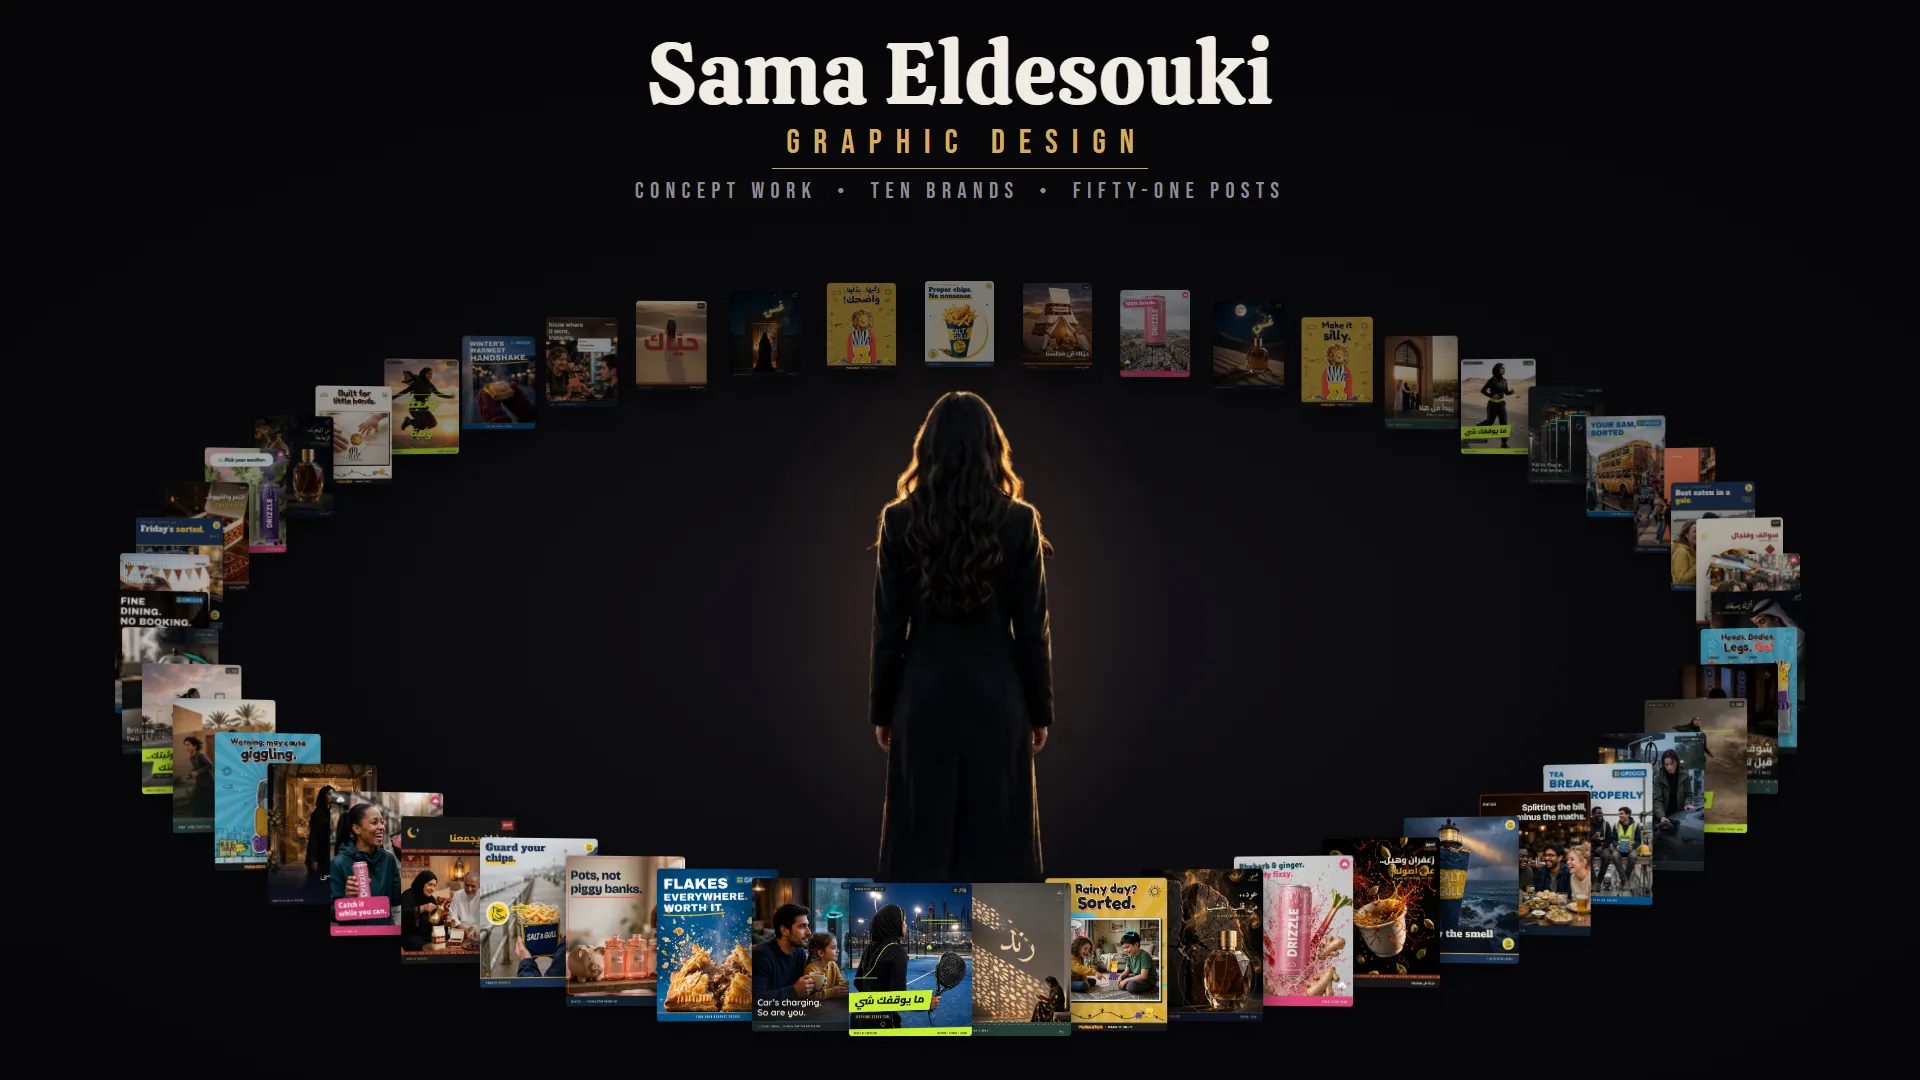
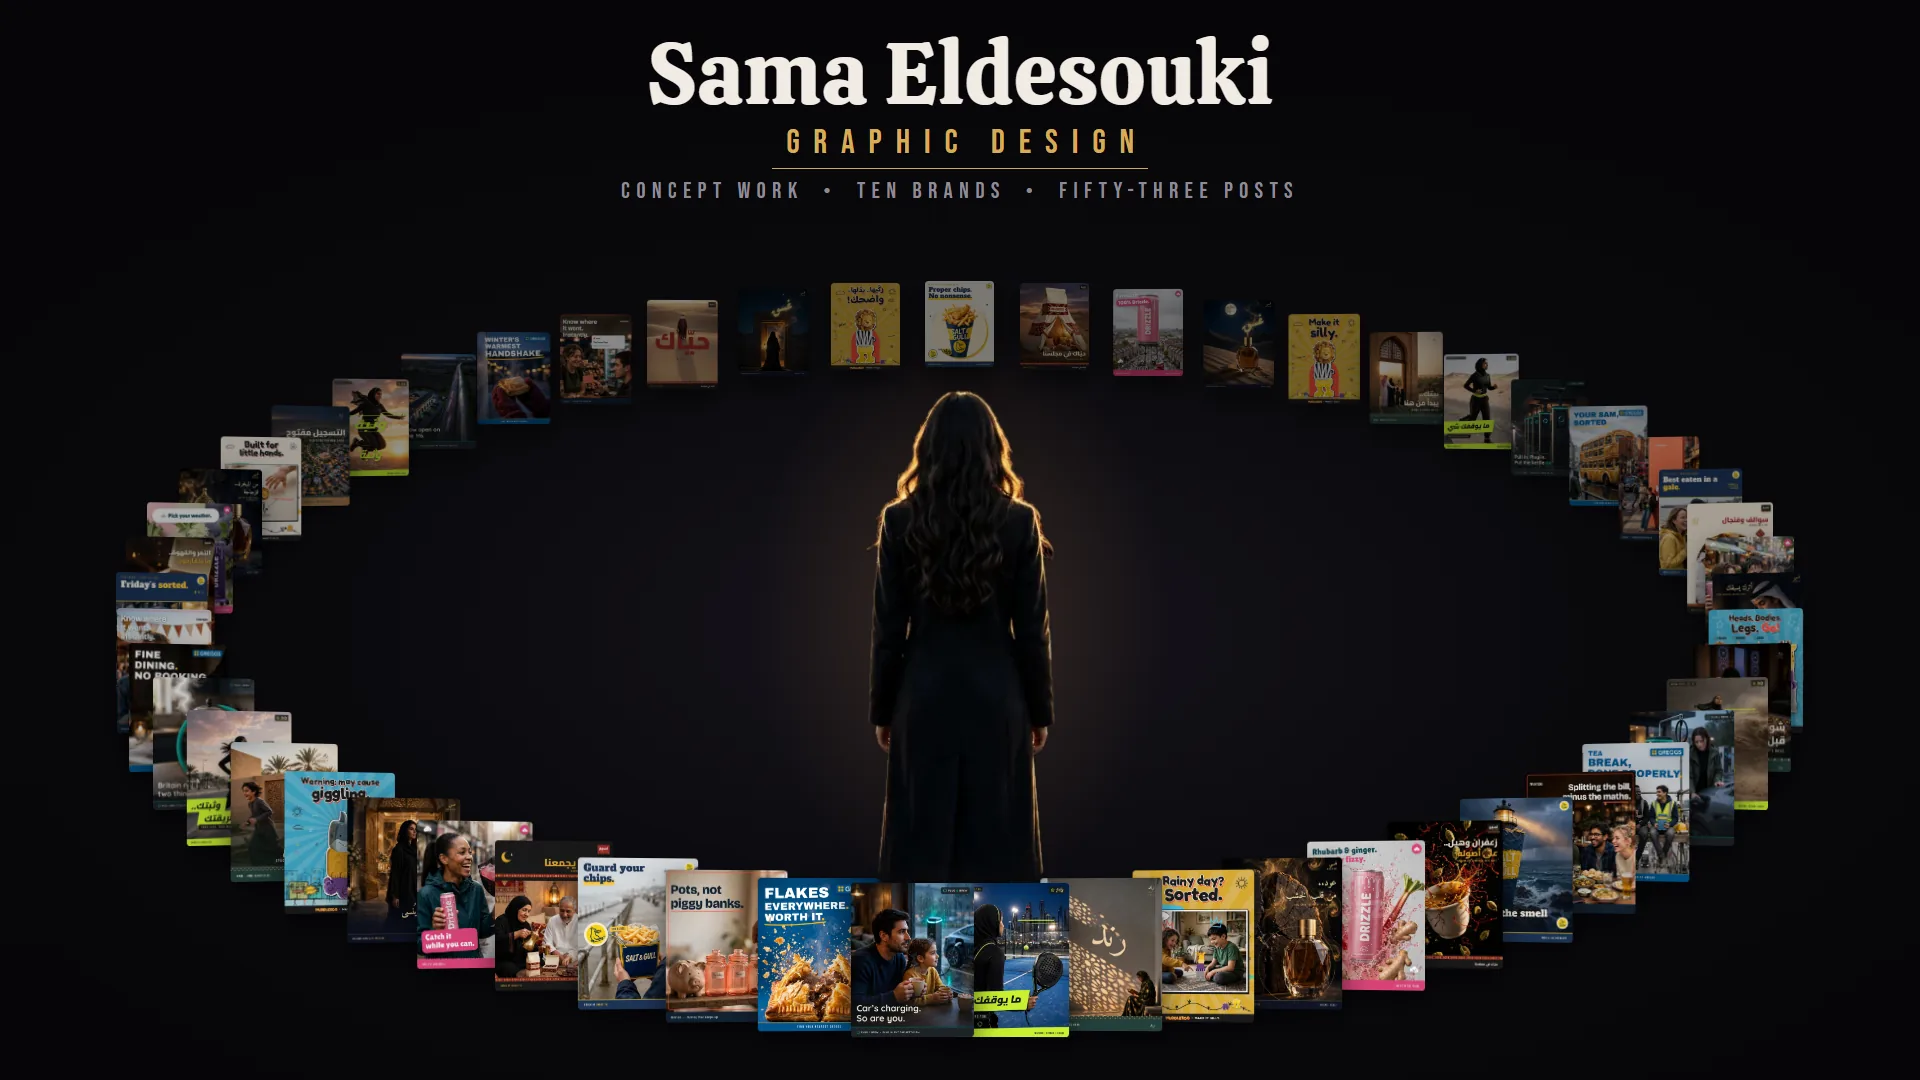
Fill in and add post 5 for Rand and Plug & Brew

Changed region(s): [[0.0625, 0.2444, 0.9375, 0.9778], [0.3125, 0.1528, 0.5312, 0.1833], [0.5625, 0.1528, 0.6875, 0.1833]]

diff --git a/design/index.html b/design/index.html
@@ -596,7 +596,7 @@
         </div>
 
         <div class="b-tabs-row">
-          <div class="b-tabs" role="tablist" aria-label="Rand work"><button class="tab" type="button" role="tab" id="rand-tab-posts" aria-controls="rand-posts" aria-selected="true">Posts <span class="tab-n">4</span></button><button class="tab" type="button" role="tab" id="rand-tab-process" aria-controls="rand-process" aria-selected="false" tabindex="-1">How it was built</button></div>
+          <div class="b-tabs" role="tablist" aria-label="Rand work"><button class="tab" type="button" role="tab" id="rand-tab-posts" aria-controls="rand-posts" aria-selected="true">Posts <span class="tab-n">5</span></button><button class="tab" type="button" role="tab" id="rand-tab-process" aria-controls="rand-process" aria-selected="false" tabindex="-1">How it was built</button></div>
           <div class="posts-nav">
             <button class="icon-btn" type="button" data-dir="-1" aria-label="Previous Rand posts"><i class="ph ph-arrow-left" aria-hidden="true"></i></button>
             <button class="icon-btn" type="button" data-dir="1" aria-label="Next Rand posts"><i class="ph ph-arrow-right" aria-hidden="true"></i></button>
@@ -606,17 +606,20 @@
         <div class="b-panel" role="tabpanel" id="rand-posts" aria-labelledby="rand-tab-posts">
           <h3 class="b-h3 panel-h">The posts</h3>
           <ul class="strip" aria-label="Rand social posts">
-              <li><button class="post" type="button" data-full="../assets/design/rand/post-1.webp" data-caption="Rand · post 1 of 4">
+              <li><button class="post" type="button" data-full="../assets/design/rand/post-1.webp" data-caption="Rand · post 1 of 5">
                 <img src="../assets/design/rand/post-1.webp" width="864" height="1080" alt="“بيتك.. يبدأ من هنا”, home starts here. A family looks out through a carved Najdi doorway at palms in the golden hour." loading="lazy" decoding="async">
               </button></li>
-              <li><button class="post" type="button" data-full="../assets/design/rand/post-2.webp" data-caption="Rand · post 2 of 4">
+              <li><button class="post" type="button" data-full="../assets/design/rand/post-2.webp" data-caption="Rand · post 2 of 5">
                 <img src="../assets/design/rand/post-2.webp" width="864" height="1080" alt="“شوف بيتك قبل لا يكتمل”, see your home before it’s built. A father and son point at a lit model of the community." loading="lazy" decoding="async">
               </button></li>
-              <li><button class="post" type="button" data-full="../assets/design/rand/post-3.webp" data-caption="Rand · post 3 of 4">
+              <li><button class="post" type="button" data-full="../assets/design/rand/post-3.webp" data-caption="Rand · post 3 of 5">
                 <img src="../assets/design/rand/post-3.webp" width="864" height="1080" alt="“رند” cast in mashrabiya light across a courtyard wall as a woman reads in the shade below." loading="lazy" decoding="async">
               </button></li>
-              <li><button class="post" type="button" data-full="../assets/design/rand/post-4.webp" data-caption="Rand · post 4 of 4">
+              <li><button class="post" type="button" data-full="../assets/design/rand/post-4.webp" data-caption="Rand · post 4 of 5">
                 <img src="../assets/design/rand/post-4.webp" width="864" height="1080" alt="“مساحة تكبر معكم”, space that grows with you. A boy runs laughing past his grandmother watering the garden." loading="lazy" decoding="async">
+              </button></li>
+              <li><button class="post" type="button" data-full="../assets/design/rand/post-5.webp" data-caption="Rand · post 5 of 5">
+                <img src="../assets/design/rand/post-5.webp" width="864" height="1080" alt="“التسجيل مفتوح”, registration now open. An aerial view of the lit community at dusk: 320 villas, phase 1, North Riyadh." loading="lazy" decoding="async">
               </button></li>
           </ul>
         </div>
@@ -657,7 +660,7 @@
         </div>
 
         <div class="b-tabs-row">
-          <div class="b-tabs" role="tablist" aria-label="Plug & Brew work"><button class="tab" type="button" role="tab" id="plug-brew-tab-posts" aria-controls="plug-brew-posts" aria-selected="true">Posts <span class="tab-n">4</span></button><button class="tab" type="button" role="tab" id="plug-brew-tab-process" aria-controls="plug-brew-process" aria-selected="false" tabindex="-1">How it was built</button></div>
+          <div class="b-tabs" role="tablist" aria-label="Plug & Brew work"><button class="tab" type="button" role="tab" id="plug-brew-tab-posts" aria-controls="plug-brew-posts" aria-selected="true">Posts <span class="tab-n">5</span></button><button class="tab" type="button" role="tab" id="plug-brew-tab-process" aria-controls="plug-brew-process" aria-selected="false" tabindex="-1">How it was built</button></div>
           <div class="posts-nav">
             <button class="icon-btn" type="button" data-dir="-1" aria-label="Previous Plug & Brew posts"><i class="ph ph-arrow-left" aria-hidden="true"></i></button>
             <button class="icon-btn" type="button" data-dir="1" aria-label="Next Plug & Brew posts"><i class="ph ph-arrow-right" aria-hidden="true"></i></button>
@@ -667,17 +670,20 @@
         <div class="b-panel" role="tabpanel" id="plug-brew-posts" aria-labelledby="plug-brew-tab-posts">
           <h3 class="b-h3 panel-h">The posts</h3>
           <ul class="strip" aria-label="Plug & Brew social posts">
-              <li><button class="post" type="button" data-full="../assets/design/plug-brew/post-1.webp" data-caption="Plug & Brew · post 1 of 4">
+              <li><button class="post" type="button" data-full="../assets/design/plug-brew/post-1.webp" data-caption="Plug & Brew · post 1 of 5">
                 <img src="../assets/design/plug-brew/post-1.webp" width="864" height="1080" alt="“Pull in. Plug in. Put the kettle on.” A row of chargers with glowing teal rings beside a lit café on a rainy night." loading="lazy" decoding="async">
               </button></li>
-              <li><button class="post" type="button" data-full="../assets/design/plug-brew/post-2.webp" data-caption="Plug & Brew · post 2 of 4">
+              <li><button class="post" type="button" data-full="../assets/design/plug-brew/post-2.webp" data-caption="Plug & Brew · post 2 of 5">
                 <img src="../assets/design/plug-brew/post-2.webp" width="864" height="1080" alt="“Click. That’s it.” A woman plugs in her car in the rain, the café glowing behind her." loading="lazy" decoding="async">
               </button></li>
-              <li><button class="post" type="button" data-full="../assets/design/plug-brew/post-3.webp" data-caption="Plug & Brew · post 3 of 4">
+              <li><button class="post" type="button" data-full="../assets/design/plug-brew/post-3.webp" data-caption="Plug & Brew · post 3 of 5">
                 <img src="../assets/design/plug-brew/post-3.webp" width="864" height="1080" alt="“Car’s charging. So are you.” A dad and his daughter hold hot chocolates by a rainy window while their car charges outside." loading="lazy" decoding="async">
               </button></li>
-              <li><button class="post" type="button" data-full="../assets/design/plug-brew/post-4.webp" data-caption="Plug & Brew · post 4 of 4">
+              <li><button class="post" type="button" data-full="../assets/design/plug-brew/post-4.webp" data-caption="Plug & Brew · post 4 of 5">
                 <img src="../assets/design/plug-brew/post-4.webp" width="864" height="1080" alt="“Britain runs on two things.” A steaming kettle inside a teal ring, with a charging cable plugged into it." loading="lazy" decoding="async">
+              </button></li>
+              <li><button class="post" type="button" data-full="../assets/design/plug-brew/post-5.webp" data-caption="Plug & Brew · post 5 of 5">
+                <img src="../assets/design/plug-brew/post-5.webp" width="864" height="1080" alt="“Now open on the M6.” An aerial view at dusk of the hub beside the motorway: 12 rapid chargers, Junction 15, open 24/7." loading="lazy" decoding="async">
               </button></li>
           </ul>
         </div>
